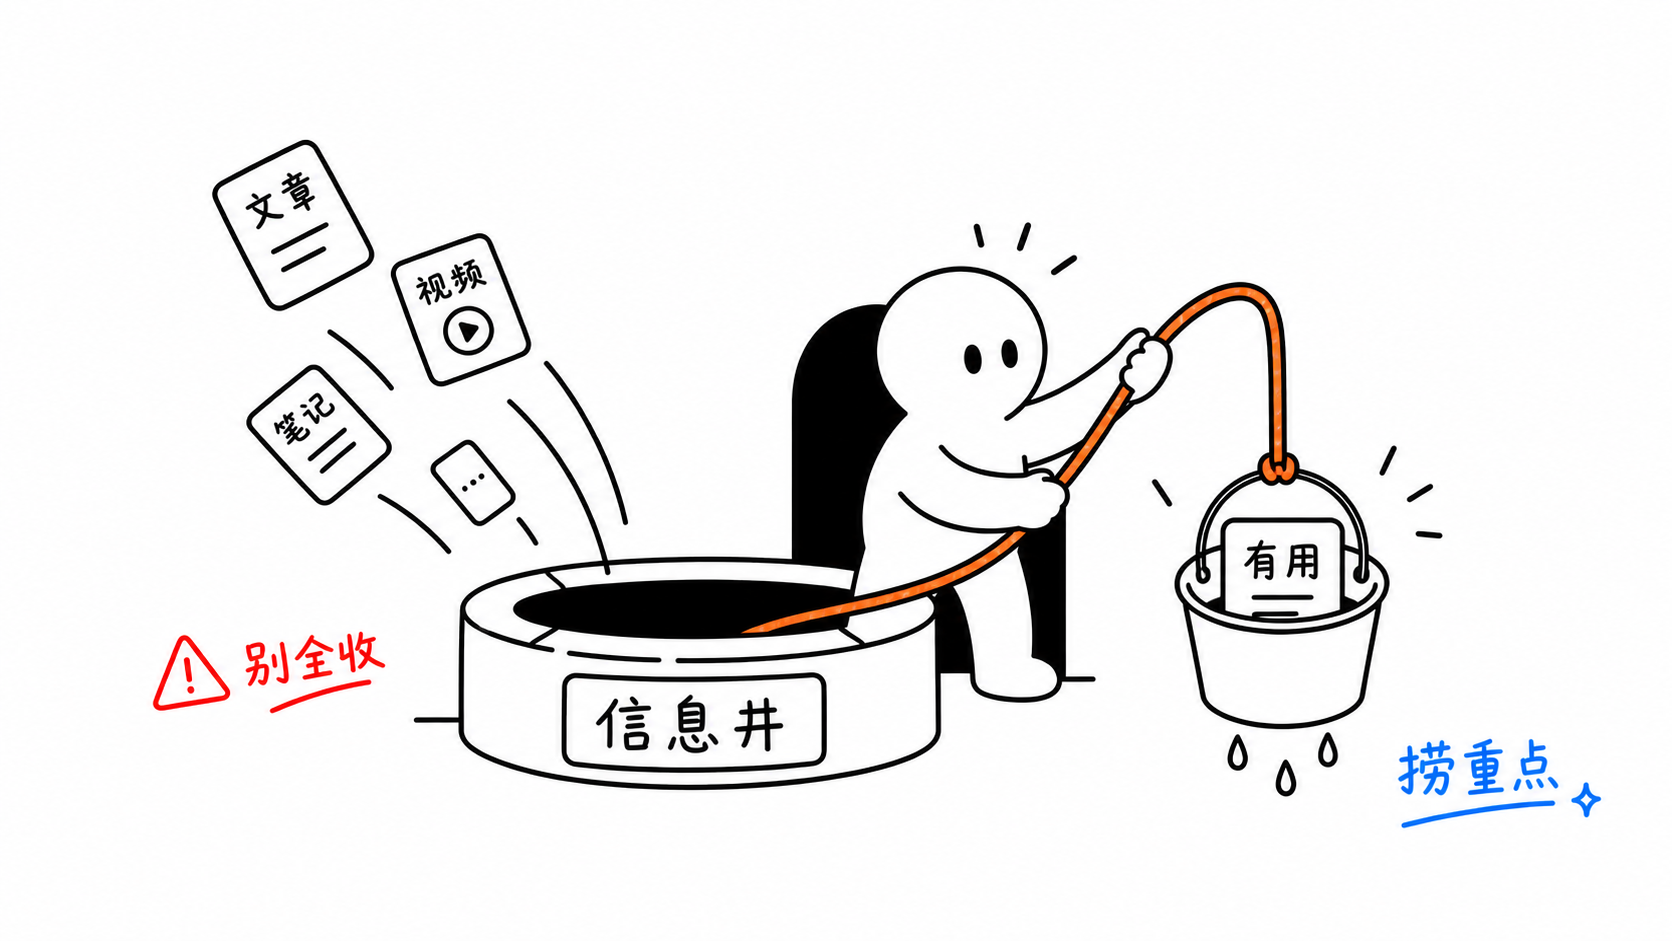
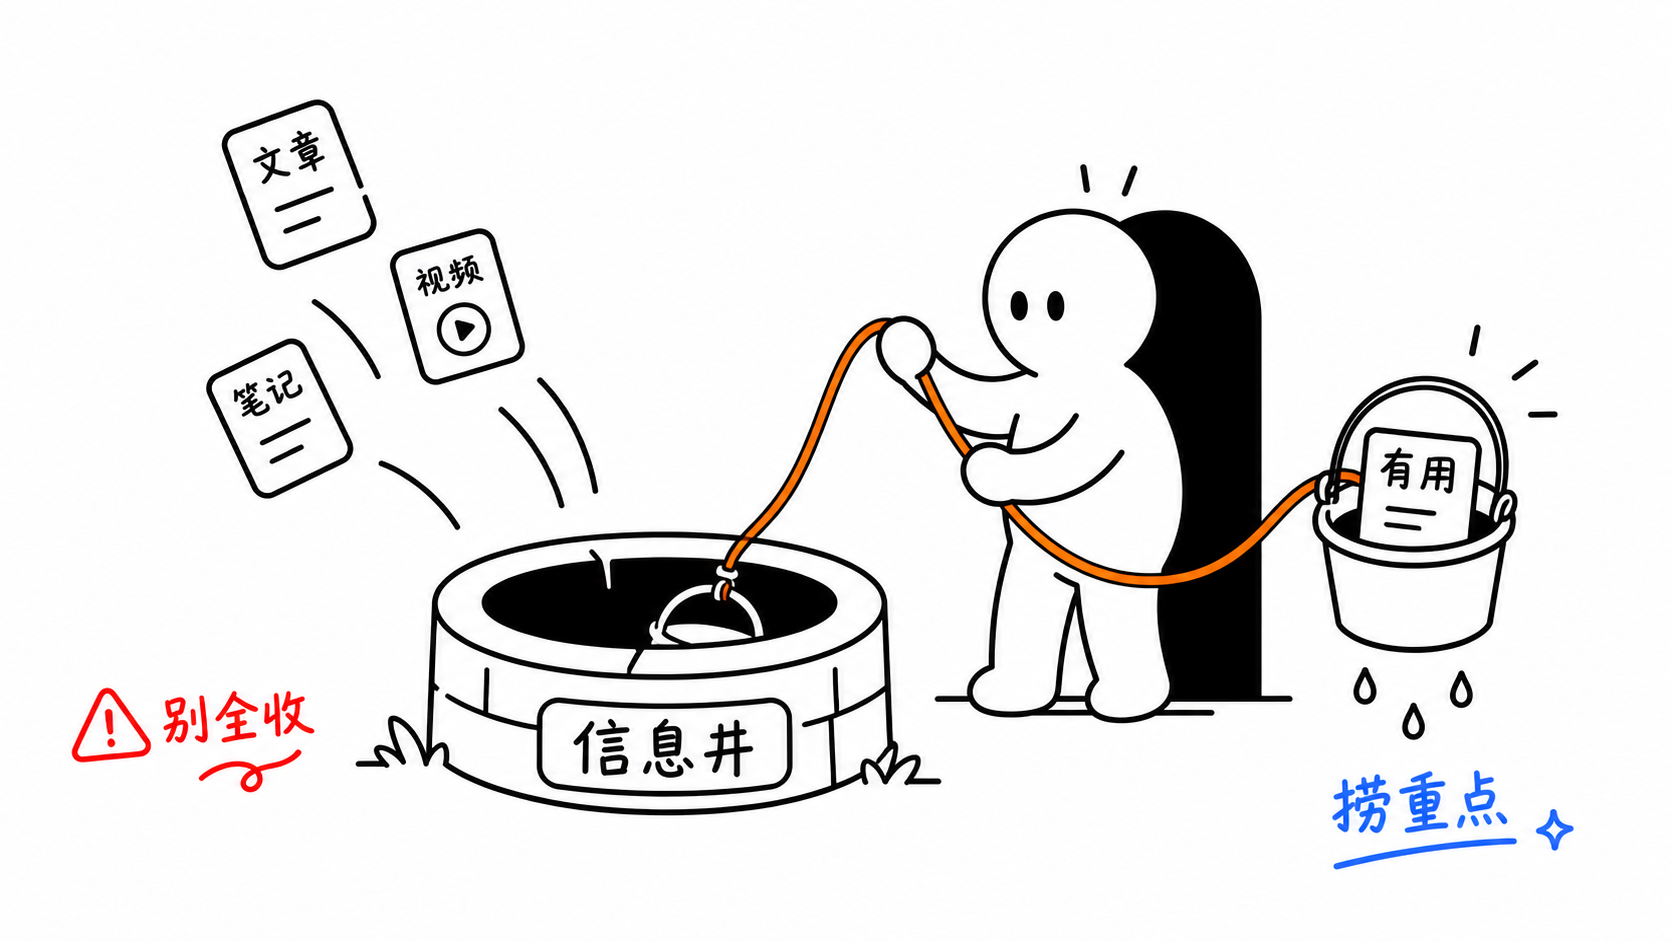
Fix Ailuren prop separation in examples

diff --git a/ailuren-illustrations/references/prompt-template.md b/ailuren-illustrations/references/prompt-template.md
@@ -33,7 +33,7 @@ Color use:
 Black for continuous hand-drawn line art, labels, structure, Ai路人的 oval eyes / outline, and optional local black backdrop. White for Ai路人的 body and background. Orange for main flow/path/arrows. Red only for key warnings/problems/results. Blue only for secondary notes or feedback/system state. No gray anywhere. No dashed lines or dotted lines.
 
 Constraints:
-One image explains only one core structure. Keep the main subject around 40%-60% of the canvas. Preserve at least 35% blank white space. Use at most 5-8 short handwritten Chinese labels. Do not write a title in the top-left corner. Do not write the structure type on the image. Do not make it a formal diagram, course slide, or dense explainer. Do not make Ai路人 black, over-detailed, cute, toy-like, robotic, or dressed. Do not add extra hands, extra arms, fingers, pointing hands, overlapping hands, or complex hand poses. Do not use gray lines, gray fills, gray shadows, dashed lines, dotted lines, engineering guide lines, or sketch construction lines. Do not copy prior examples or reuse known case compositions unless explicitly requested; invent a fresh visual metaphor for this specific article. It should be clear but not instructional, interesting but not childish, strange but clean.
+One image explains only one core structure. Keep the main subject around 40%-60% of the canvas. Preserve at least 35% blank white space. Use at most 5-8 short handwritten Chinese labels. Do not write a title in the top-left corner. Do not write the structure type on the image. Do not make it a formal diagram, course slide, or dense explainer. Do not make Ai路人 black, over-detailed, cute, toy-like, robotic, or dressed. Do not add extra hands, extra arms, fingers, pointing hands, overlapping hands, or complex hand poses. Do not let Ai路人的 feet, legs, arms, or body merge with props, machines, wells, boxes, cards, or paths; keep the full silhouette readable with clear white separation from objects. Do not use gray lines, gray fills, gray shadows, dashed lines, dotted lines, engineering guide lines, or sketch construction lines. Do not copy prior examples or reuse known case compositions unless explicitly requested; invent a fresh visual metaphor for this specific article. It should be clear but not instructional, interesting but not childish, strange but clean.
 ```
 
 ## 图像编辑提示

diff --git a/ailuren-illustrations/references/ailuren-ip.md b/ailuren-illustrations/references/ailuren-ip.md
@@ -21,6 +21,8 @@ Ai路人是这个中文正文配图 Skill 的固定视觉 IP。
 - 四肢圆润，手脚像软圆端点，不画手指和鞋子。
 - 只能有两条手臂、两条腿；不能多出手、手臂、手指或重叠的备用手。
 - 手臂动作要单一清楚；一只手不要同时拿东西又指向别处。
+- 四肢必须完整可见，不能和机器、井、盒子、卡片、路径等物件融合、穿插或共用轮廓。
+- 角色和核心物件之间要保留清楚的白色间隔；如果需要接触，只能是手拿、手推、手拉，不能让身体长在物件上。
 - 常见姿态是正在走路、跨步、伸手、推、拉、搬、接、递。
 - 轮廓干净柔和，可以有轻微手绘抖动，但不要变成毛绒、黏土或儿童玩具。
 - 在白底图里必须用清楚黑色轮廓和局部黑色托底区分白色身体和背景。
@@ -53,6 +55,7 @@ Ai路人是这个中文正文配图 Skill 的固定视觉 IP。
 - 不要画成儿童卡通、表情包、玩偶、机器人或宇航员。
 - 不要添加衣服、帽子、鞋子、复杂五官、闪亮眼睛或大笑表情。
 - 不要添加额外手臂、额外手、手指、指向手势或复杂手部动作。
+- 不要让脚、腿、手臂或身体和道具融合、被道具切断、藏进道具边缘或共用同一条轮廓线。
 - 不要让 Ai路人只是站在角落里看。
 - 不要让角色抢走结构表达，角色动作必须服务核心意思。
 - 不要把角色画得过于商业吉祥物、3D 潮玩、毛绒或可爱。

diff --git a/ailuren-illustrations/references/qa-checklist.md b/ailuren-illustrations/references/qa-checklist.md
@@ -25,6 +25,7 @@
 - Ai路人像吉祥物、表情包、可爱卡通、机器人、宇航员或潮玩。
 - Ai路人被画成黑色角色，或加了衣服、嘴、鼻子、头发、鞋子。
 - Ai路人多出手、手臂、手指，或一只手同时做多个动作。
+- Ai路人的脚、腿、手臂或身体和道具融合、穿插、共用轮廓，或被道具遮到读不清。
 - 白色角色在白底里看不清。
 - 画面像 PPT、课程课件、正式流程图。
 - 元素太多、箭头太多、节点太多。
